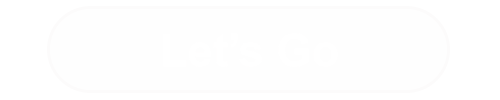
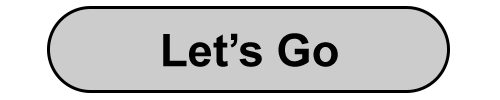
Added backstory scene and fade transitions

diff --git a/src/js/scenes/BackstoryScene.js b/src/js/scenes/BackstoryScene.js
@@ -2,18 +2,18 @@
 
 import config from '../config';
 
-const consola = require('consola').withTag('InstructionsScene');
+const consola = require('consola').withTag('BackstoryScene');
 
 /**
  * MenuScene is the scene of the main menu of the game
  */
-export default class InstructionsScene extends Phaser.Scene {
+export default class BackstoryScene extends Phaser.Scene {
 
     /**
      * construct passing the unique key to the game instance
      */
     constructor() {
-        super({ key: 'InstructionsScene' });
+        super({ key: 'BackstoryScene' });
     }
 
     /**
@@ -23,29 +23,31 @@ export default class InstructionsScene extends Phaser.Scene {
      */
     create(data) {
         consola.info('Create');
+        this.cameras.main.fadeIn(config.FADE_DURATION, 0, 0, 0);
 
-        const backgroundImage = this.add.image(0, 0, 'tutorial_screen-image');
+        const backgroundImage = this.add.image(0, 0, 'backstory-image');
         backgroundImage.setOrigin(0, 0);
-        backgroundImage.setScale(.55);
+        // backgroundImage.setScale(.55);
 
         // Play Button
-        this.playButton = this.add.sprite(config.GAME_WIDTH / 2, config.GAME_HEIGHT - 50, 'button-play-20-image');
+        this.playButton = this.add.sprite(config.GAME_WIDTH / 2 + 200, config.GAME_HEIGHT - 120, 'button-letsgo-20-image');
         this.playButton.setInteractive();
         this.playButton.setScale(0.5);
 
         this.playButton.on('pointerover', () => {
-            this.playButton.setTexture('button-play-50-image');
+            this.playButton.setTexture('button-letsgo-50-image');
         });
 
         this.playButton.on('pointerout', () => {
-            this.playButton.setTexture('button-play-20-image');
+            this.playButton.setTexture('button-letsgo-20-image');
         });
 
         this.playButton.on('pointerup', () => {
             this.cameras.main.fadeOut(config.FADE_DURATION, 0, 0, 0);
 
             this.cameras.main.once(Phaser.Cameras.Scene2D.Events.FADE_OUT_COMPLETE, () => {
-                this.scene.start('BackstoryScene');
+                this.events.emit('mainGameMusic');
+                this.scene.start('MainScene');
             });
         });
     }

diff --git a/src/js/Game.js b/src/js/Game.js
@@ -11,6 +11,7 @@ import SoundManagerScene from './scenes/SoundManagerScene';
 import GameOverScene from './scenes/GameOverScene';
 import VictoryScene from './scenes/VictoryScene';
 import InstructionsScene from './scenes/InstructionsScene';
+import BackstoryScene from './scenes/BackstoryScene';
 
 export default class Game extends Phaser.Game {
 
@@ -34,7 +35,7 @@ export default class Game extends Phaser.Game {
                 },
             },
             scene: [PreloadScene, MenuScene, MainScene, UIScene, SoundManagerScene, GameOverScene, VictoryScene,
-                InstructionsScene],
+                InstructionsScene, BackstoryScene],
         };
 
         super(gameConfig);

diff --git a/src/js/scenes/MenuScene.js b/src/js/scenes/MenuScene.js
@@ -44,8 +44,11 @@ export default class MenuScene extends Phaser.Scene {
         });
 
         this.playButton.on('pointerup', () => {
-            this.events.emit('mainGameMusic');
-            this.scene.start('MainScene');
+            this.cameras.main.fadeOut(config.FADE_DURATION, 0, 0, 0);
+
+            this.cameras.main.once(Phaser.Cameras.Scene2D.Events.FADE_OUT_COMPLETE, () => {
+                this.scene.start('BackstoryScene');
+            });
         });
 
         // Instructions Button

diff --git a/src/js/scenes/UIScene.js b/src/js/scenes/UIScene.js
@@ -1,5 +1,5 @@
 /* global Phaser */
-// const consola = require('consola').withTag('UIScene');
+const consola = require('consola').withTag('UIScene');
 
 export default class UIScene extends Phaser.Scene {
     constructor() {
@@ -7,6 +7,8 @@ export default class UIScene extends Phaser.Scene {
     }
 
     create() {
+        consola.info('Create');
+
         this.scene.setVisible(false); // hide unless specifically set to visible
 
         this.gameScene = this.scene.get('MainScene');

diff --git a/src/js/scenes/MainScene.js b/src/js/scenes/MainScene.js
@@ -19,6 +19,7 @@ export default class MainScene extends Phaser.Scene {
 
     create() {
         consola.info('Create');
+        this.cameras.main.fadeIn(config.FADE_DURATION, 0, 0, 0);
 
         this.victory = false;
 

diff --git a/src/js/config.js b/src/js/config.js
@@ -14,6 +14,7 @@ const config = {
     DISABLE_SOUNDS   : false,
     BOSS_REVEAL_DEPTH: 2400,
     BOSS_REVEAL_TIME : 7,
+    FADE_DURATION    : 250,
 };
 
 if (ENV === 'dev') {
